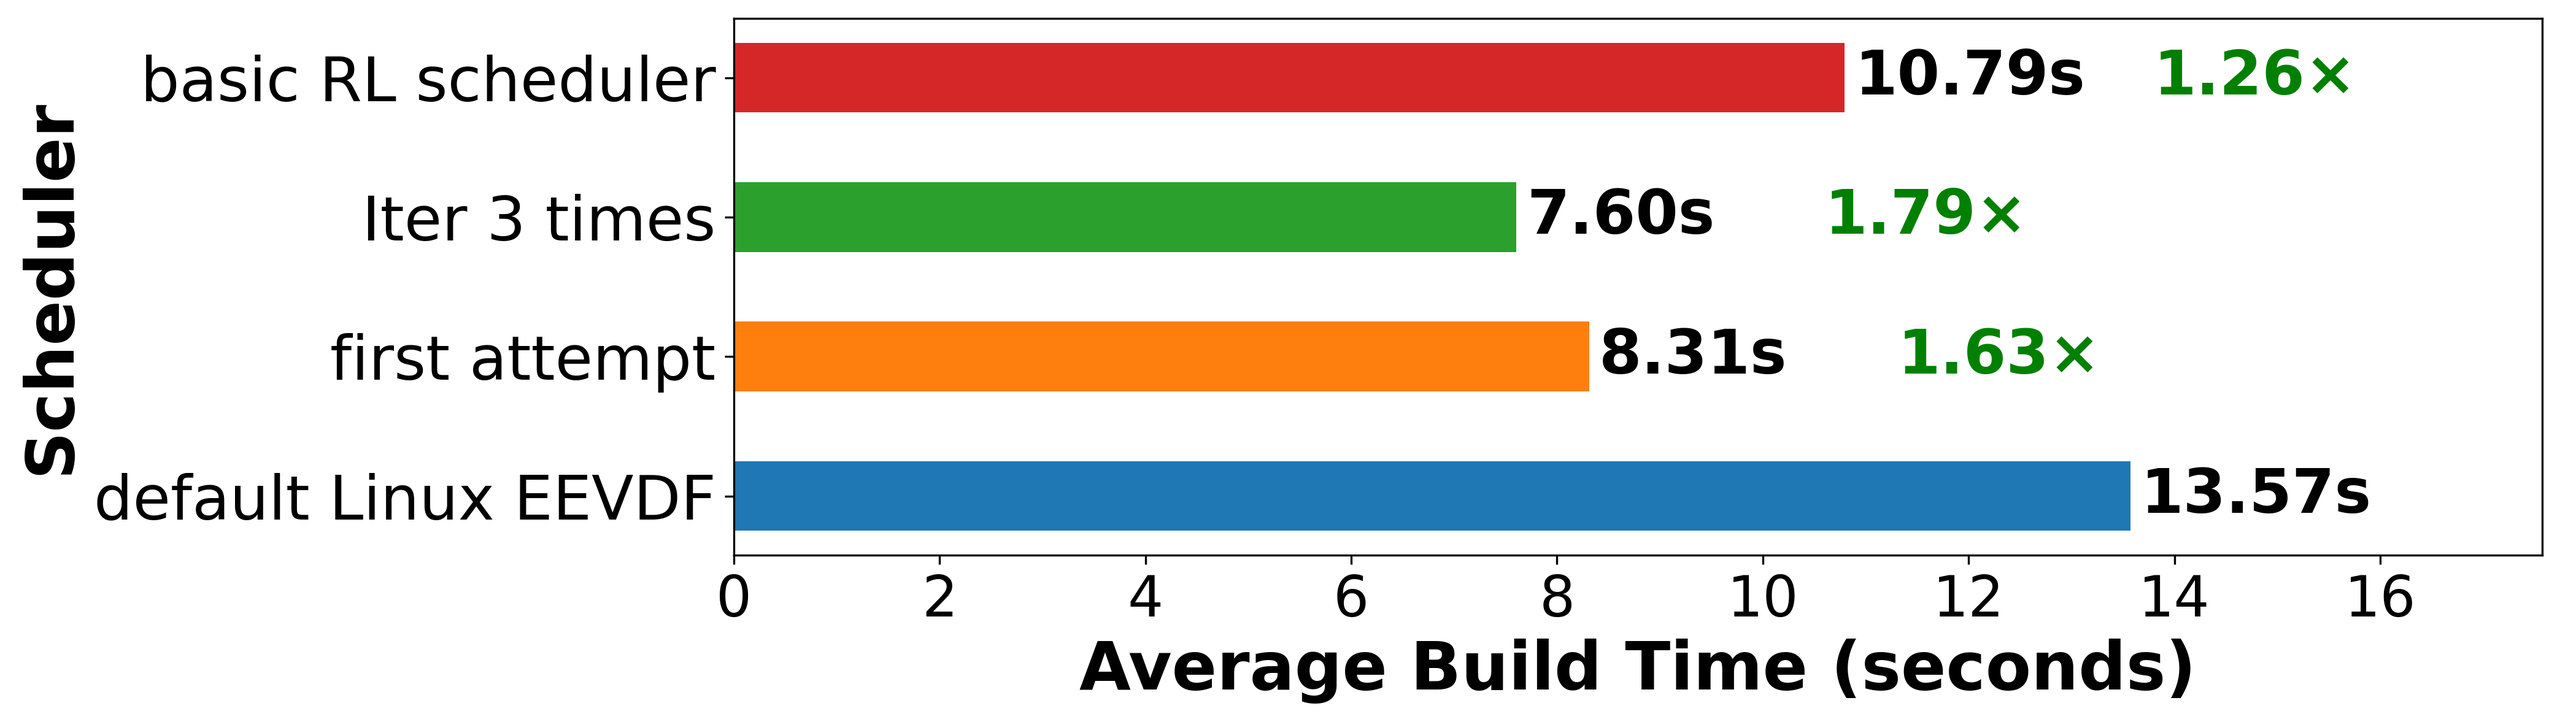
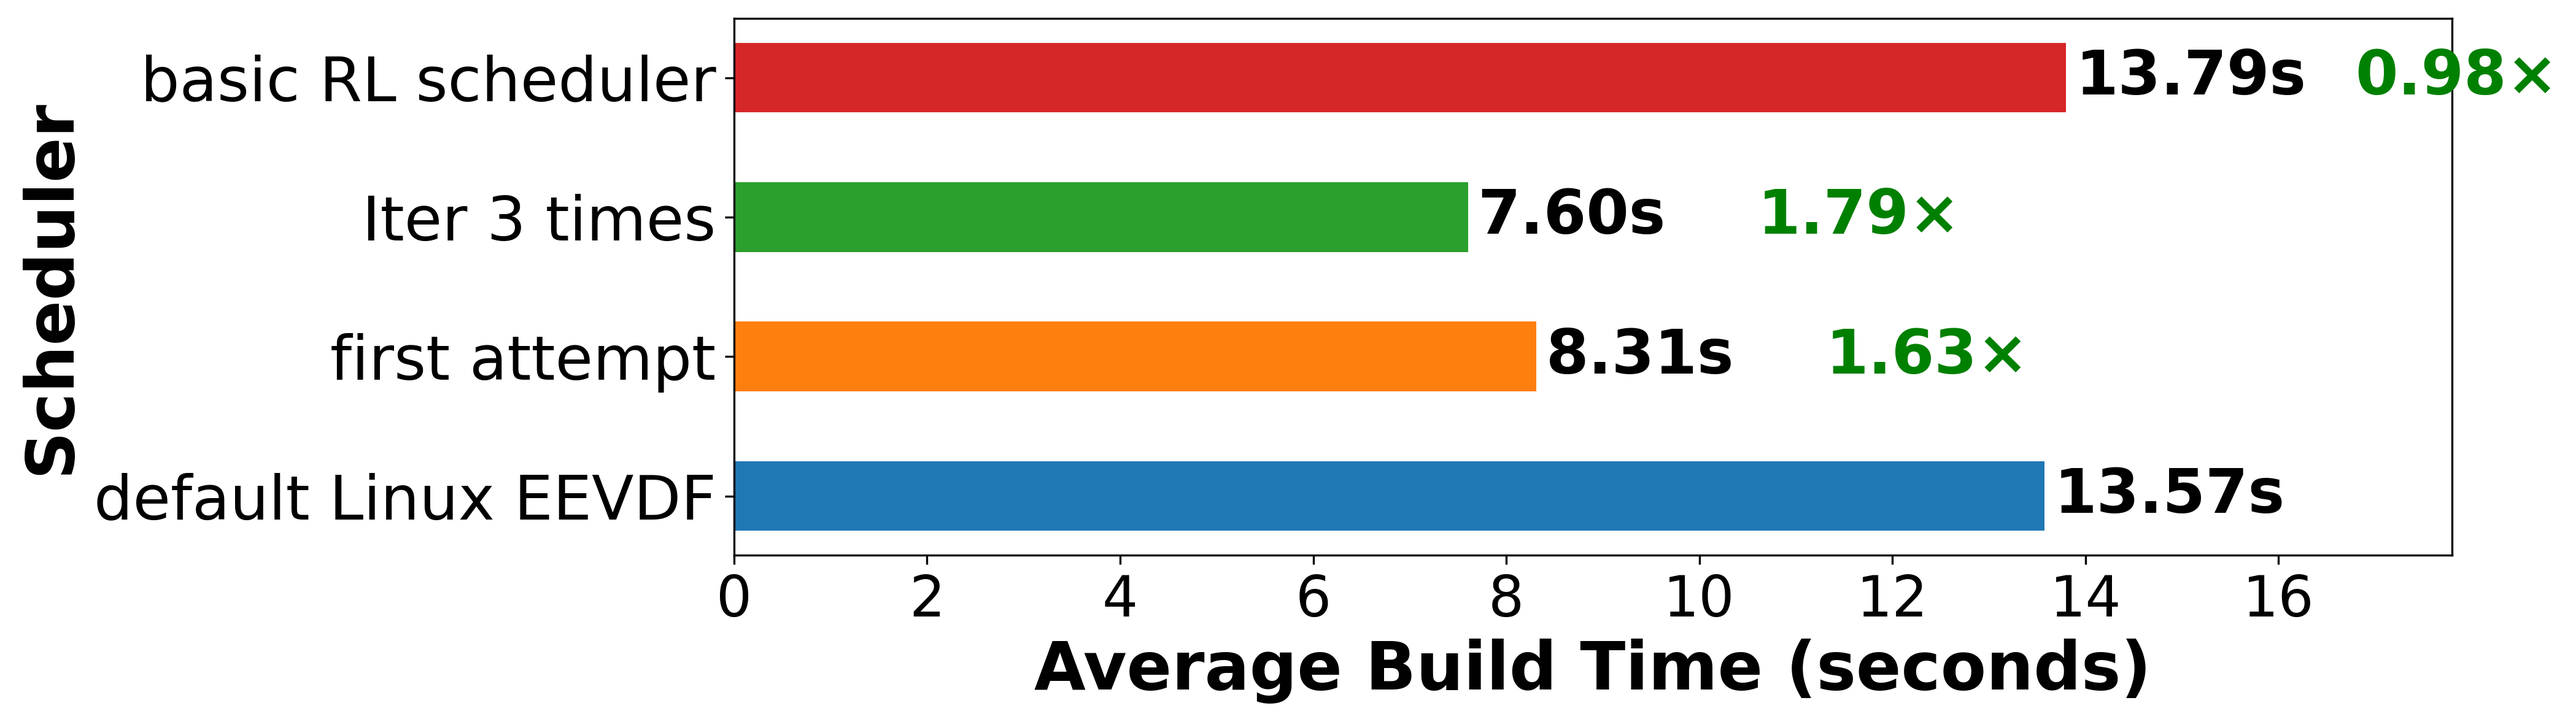
Refactor scheduler names in plotting scripts for clarity
- Updated `plot_schbench.py` and `plot_benchmark.py` to simplify scheduler names by removing specific identifiers, enhancing readability.
- Adjusted performance metrics in `README.md` for the Linux build benchmark, reflecting updated results.
- Added a new Nginx benchmarking script (`nginx_benchmark_simple.py`) to facilitate performance testing with wrk2.
- Modified Nginx configuration to improve server setup and response handling.

These changes improve the clarity of benchmarking scripts and enhance the overall benchmarking framework.

diff --git a/workloads/linux-build-bench/test-record/README.md b/workloads/linux-build-bench/test-record/README.md
@@ -42,14 +42,14 @@ sys     0m24.910s
 
 4. basic RL scheduler
 
-real    0m10.782s
-user    2m14.649s
-sys     0m35.960s
+real    0m13.782s
+user    2m21.649s
+sys     0m36.960s
 
-real    0m10.797s
-user    2m13.337s
-sys     0m35.028s
+real    0m13.797s
+user    2m22.337s
+sys     0m37.028s
 
-real    0m10.806s
-user    2m15.671s
-sys     0m34.791s
+real    0m13.806s
+user    2m21.671s
+sys     0m36.791s
